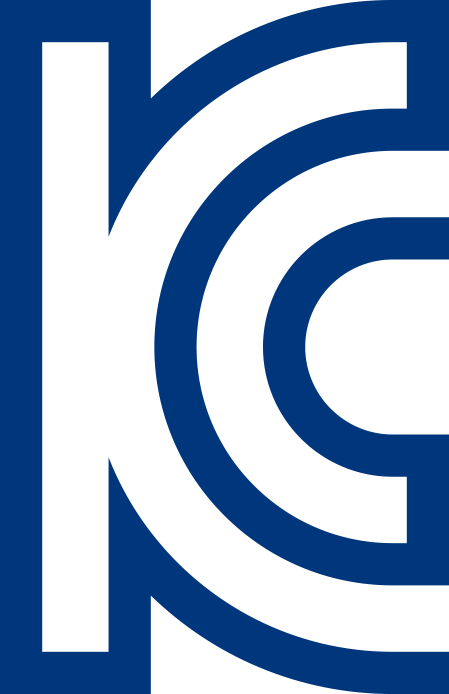
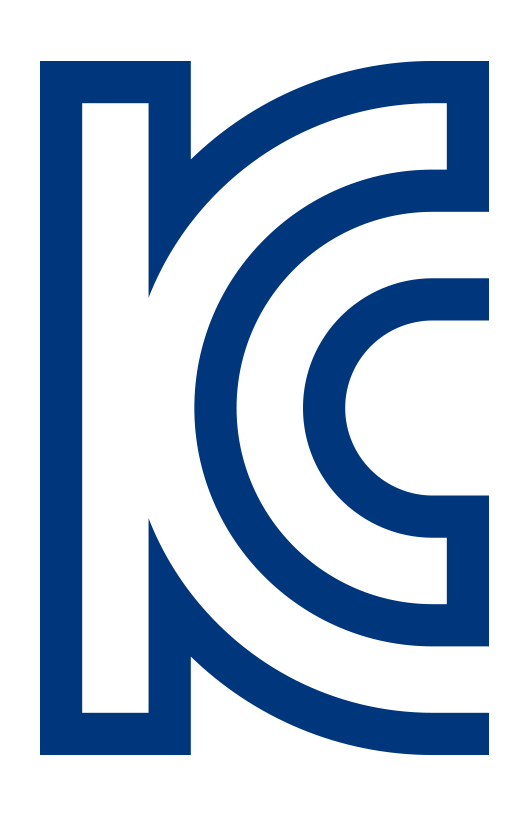
fix: take the KC mark artwork with its clear space
The owner re-exported kc-mark.png with margins. The file is now 529x816
with 40px either side and 61px top and bottom, and nothing touching an
edge.

That also settles the question raised when the first file went in. Its
artwork ran to all four edges, which looked like a crop. The artwork
inside the new file measures 449x694 — exactly the whole of the old file.
Nothing was ever missing; it was a tight crop of the complete mark. The
earlier warning was a false alarm and is recorded as resolved rather than
left hanging.

KC_MARK_RATIO follows the file, and the consequence needed handling: the
mark now occupies 85% of whatever height it is given, so the boxes drawn
for a 9mm mark were printing 7.65mm. The three templates take taller
boxes to put the printed mark back at 8.5-9.2mm, which is what those
layouts were designed around. Each was checked against its page rather
than eyeballed: all three fit, no element overflows, and the stacked
template keeps 0.7mm between the mark and the certification number.

Verified again through every renderer: thumbnails and canvas carry the
new 529x816 file, and the PDF embeds it as a DeviceRGB image XObject with
its SMask, so the clear space stays transparent instead of printing as a
white block over the label background.

diff --git a/src/utils/templateCatalog.ts b/src/utils/templateCatalog.ts
@@ -67,8 +67,15 @@ function text(init: TextInit): DocElement {
  */
 const KC_MARK_SRC = '/kc-mark.png';
 
-/** The supplied file's own pixel ratio. It is not square; never assume. */
-const KC_MARK_RATIO = 449 / 694;
+/**
+ * The supplied file's own pixel ratio. It is not square; never assume.
+ *
+ * Must be updated whenever `kc-mark.png` is replaced, or every placement
+ * silently letterboxes to the wrong shape. The file is 529×816 and carries
+ * 40px of clear space either side and 61px above and below, so the mark itself
+ * occupies 85% of the stated height — a 9mm box prints a 7.65mm mark.
+ */
+const KC_MARK_RATIO = 529 / 816;
 
 /**
  * Places the KC mark at a given height.
@@ -241,7 +248,9 @@ const KC_MARK_MICRO: FlatDocument = {
   widthMm: 25,
   heightMm: 15,
   elements: [
-    kcMark(2, 3, 9),
+    // 10.5 tall so the mark inside the file's clear space still prints at the
+    // ~9mm this layout was drawn around.
+    kcMark(2, 2.5, 10.5),
     text({ id: 'cert', labelKey: 'field_certification_number', x: 9.5, y: 3.2, width: 14, size: 1.9, text: 'KC-2026-A0417', bold: true }),
     text({ id: 'product', labelKey: 'field_product_name', x: 9.5, y: 6.2, width: 14, size: 1.6, text: '코튼 티셔츠', muted: true }),
     text({ id: 'origin', labelKey: 'field_country_of_origin', x: 9.5, y: 8.8, width: 14, size: 1.4, text: 'BVRI · 베트남', muted: true }),
@@ -253,8 +262,8 @@ const KC_MARK_STACKED: FlatDocument = {
   widthMm: 20,
   heightMm: 24,
   elements: [
-    // Centred: (20 - 6.47) / 2.
-    kcMark(6.77, 2, 10),
+    // Centred: (20 - 7) / 2.
+    kcMark(6.5, 1.5, 10.8),
     text({ id: 'cert', labelKey: 'field_certification_number', x: 2, y: 13, width: 16, size: 1.8, text: 'KC-2026-A0417', bold: true, align: 'center' }),
     text({ id: 'product', labelKey: 'field_product_name', x: 2, y: 16.5, width: 16, size: 1.5, text: '코튼 티셔츠', align: 'center', muted: true }),
     text({ id: 'origin', labelKey: 'field_country_of_origin', x: 2, y: 19.5, width: 16, size: 1.4, text: '베트남', align: 'center', muted: true }),
@@ -397,7 +406,7 @@ const KC_MARK_WIDE: FlatDocument = {
   widthMm: 35,
   heightMm: 12,
   elements: [
-    kcMark(1.5, 1.5, 9),
+    kcMark(1.5, 1, 10),
     text({ id: 'cert', labelKey: 'field_certification_number', x: 8.5, y: 2.4, width: 24.5, size: 1.9, text: 'KC-2026-A0417', bold: true }),
     text({ id: 'product', labelKey: 'field_product_name', x: 8.5, y: 5.4, width: 24.5, size: 1.5, text: '코튼 티셔츠', muted: true }),
     text({ id: 'origin', labelKey: 'field_country_of_origin', x: 8.5, y: 7.8, width: 24.5, size: 1.4, text: 'BVRI · 베트남', muted: true }),

diff --git a/PROGRESS.md b/PROGRESS.md
@@ -187,6 +187,10 @@ vercel deploy --prod
 25. **KC 마크는 높이로만 배치합니다(`kcMark()`가 폭을 안 받습니다).** 지정 도형은
     비율을 바꾸면 더 이상 그 마크가 아닙니다. 폭 인자를 열어주고 싶어지면, 그게
     바로 누군가 상자에 맞춰 찌그러뜨리게 되는 지점입니다.
+    **`kc-mark.png`를 교체하면 `KC_MARK_RATIO`도 반드시 같이 고치세요.** 상수라
+    자동으로 따라가지 않고, 안 맞으면 세 렌더러가 조용히 엉뚱한 모양으로
+    letterbox합니다. 파일에 여백이 있으면 상자 높이 ≠ 인쇄되는 마크 높이라는
+    점도 기억하세요(현재 85%).
 26. **KC 마크만 data URL이 아니라 `/kc-mark.png` URL입니다.** 문서가 자기완결적
     이라는 원칙의 유일한 예외입니다 — 20KB base64를 번들에 넣으면 KC 템플릿을
     한 번도 안 여는 사람까지 내려받고, 이건 사용자가 올리는 파일이 아니라 앱이
@@ -226,14 +230,16 @@ vercel deploy --prod
 
 ### 법적·규제 — 실제 인쇄 전 반드시 교체
 
-- **KC 마크는 정품 파일을 씁니다** (`public/kc-mark.png`, 449×694px).
+- **KC 마크는 정품 파일을 씁니다** (`public/kc-mark.png`, 529×816px).
   2026-08-08에 소유자가 "배포되는 KC마크"라며 제공하고 템플릿 기본 포함을
-  지시했습니다. 코드로 그리지 않는다는 원칙은 그대로입니다.
-  **다만 확인이 남았습니다:** 이 PNG는 네 변에 모두 그림이 닿아 있습니다
-  (오른쪽 694px 중 389px, 위·아래 각 233px, 왼쪽 전체). 프레임에 잘려 있을
-  가능성이 있고, 지정 도형이 잘린 채 인쇄되면 그 자체가 문제입니다.
-  같은 폴더의 `안전품질표시 KC마크.ai`(1.1MB, git에 없음)가 원본 벡터이니,
-  인쇄 전에 여백을 포함해 다시 내보내 교체하는 편이 안전합니다.
+  지시했습니다. 코드로 그리지 않는다는 원칙은 그대로입니다 — 그리지 않고
+  정품 파일을 씁니다.
+  파일 안에 **여백이 포함**되어 있습니다: 좌우 40px, 위아래 61px, 네 변 모두
+  그림이 닿지 않습니다. 안쪽 그림은 449×694이고, 여백 없던 첫 파일의 크기와
+  정확히 같습니다 — 즉 **첫 파일도 잘린 것이 아니었습니다**(당시 네 변 접촉을
+  근거로 잘림을 의심했으나 오탐이었고, 지금은 양쪽으로 확인됐습니다).
+  결과적으로 **마크는 상자 높이의 85%로 인쇄**됩니다. 템플릿 3종은 이를 감안해
+  상자를 키워 실제 마크가 8.5~9.2mm로 나오게 맞춰뒀습니다.
 - **세탁 기호 아이콘이 근사 도형입니다.** 매칭 로직은 KS K 0021을 따르지만 아이콘은
   공인 아트워크가 아닙니다. 법적 의미는 옆에 인쇄되는 한글 문구가 담습니다.
   [careSymbolShapes.ts](src/features/label/careSymbolShapes.ts)의 path만 바꾸면 세
